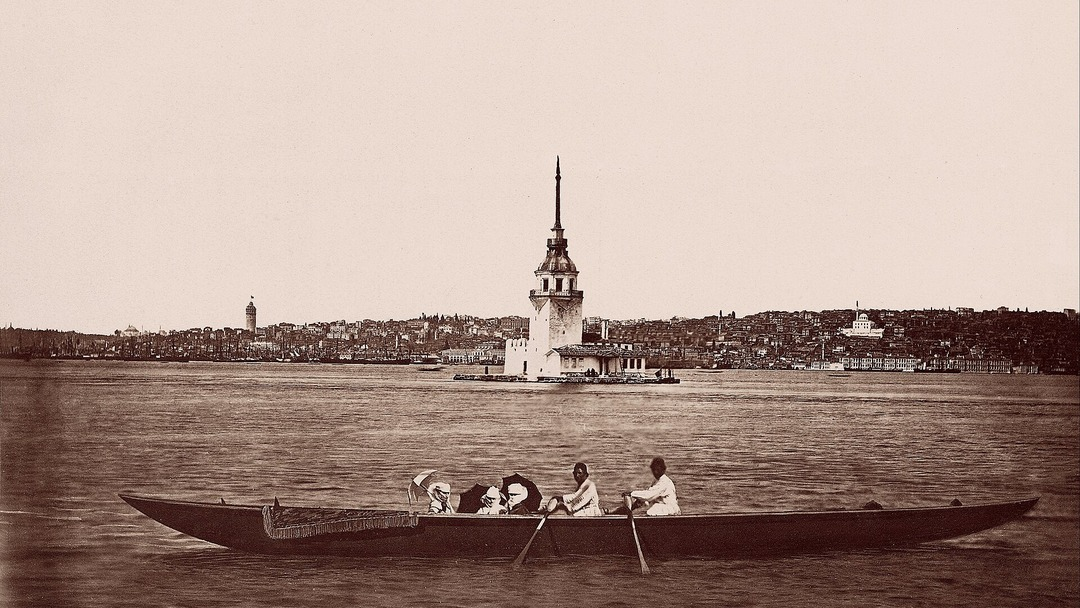
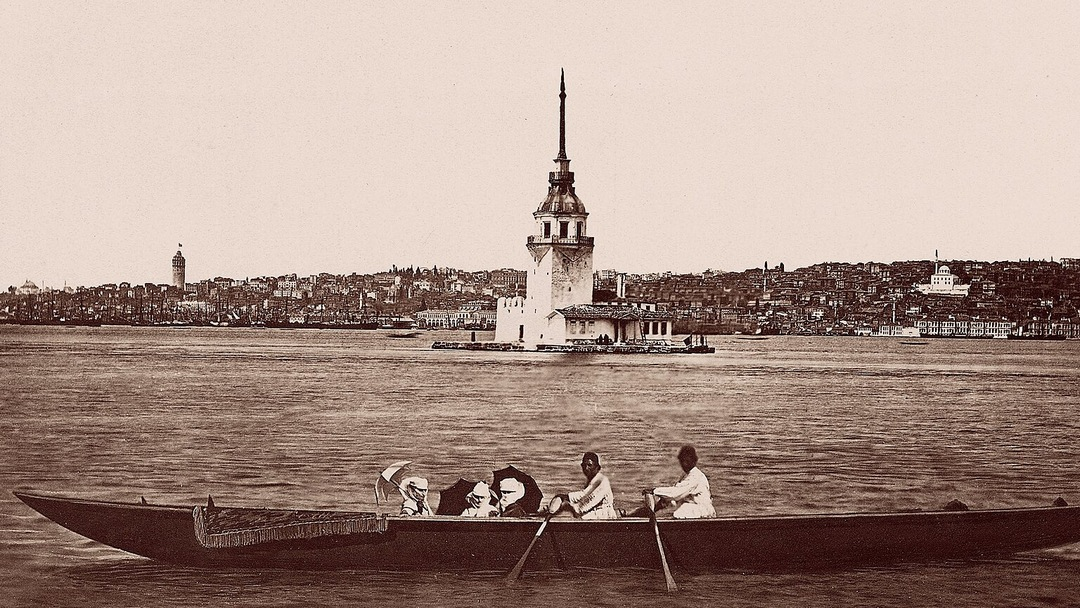
Kız Kulesi son rötuş (8/8): sıcak yüzlü imparator, yeni başlık, isim kökeni cümlesi, ikinci tohum yorum
Üç bölüm de iki bağımsız hakemden 8/10 aldı (görsel sadakat + Türk takipçi/senaryo/doğruluk).

Claude-Session: https://claude.ai/code/session_014fbrFqzL5nrgTVQyj9b7PE

diff --git a/episodes/kiz-kulesi-efsanesi/chars/imparator_uret.py b/episodes/kiz-kulesi-efsanesi/chars/imparator_uret.py
@@ -26,6 +26,12 @@ ile indirilen imparator_bizans.png.
    koyu (120,78,30) dalgalı örgü + dikey çubuklar. Üzüm: 19 tane, r 17-19, (112,38,128), 4 px kontur, sol üstte
    küçük açık parlama; tepede sap + yeşil yaprak. Tuval, ölçek, baş üstü ve yazı yeri aynı kalır (alfa kutusu
    değişmez). Bakış kaydı bilerek elle yapılır (bak, sonra: python -m wojak yon <png> --yon sag).
+6. imparator_bizans_baba.png (final tur 5; takipçi hakemi: ağır göz kapaklı yan bakış + kalkık kaş + yarım
+   gülümseme kanalın yüz dilinde "sinsi" okunuyordu, oysa efsanedeki baba seven ve trajik): sepet + sevecen
+   yüz. Kalkık dış kaş ve eski gözler silinir; düz, hafif kavisli iki kaş; açık, yuvarlak gözler (gözbebeği
+   sağ kenarda: prensese bakar, küçük beyaz parıltı kaynağın sağ gözündeki gibi); ağız açık, gururlu gülüş
+   (üstte beyaz diş şeridi, koyu kırmızı ağız içi, pembe dil; tek tek diş çizgisi yok, "creepy grin" olmasın).
+   Tuval, alfa kutusu, baş üstü ve yazı yeri değişmez. Bakış kaydı yine elle (bak, sonra --yon sag).
 """
 
 from __future__ import annotations
@@ -370,6 +376,69 @@ def sepet(im: Image.Image) -> Image.Image:
     return out
 
 
+# --- sevecen baba yüzü (final tur 5) ------------------------------------------------------------------------
+BEYAZ = (255, 255, 255, 255)
+AGIZ_IC = (120, 28, 34, 255)
+DIL = (226, 112, 124, 255)
+# beyaza boyanan eski yüz çizgileri: sol göz, sol iç kaş, sağ göz, kalkık sağ kaş, eski gülümseme çizgisi
+YUZ_SIL = [(262, 362, 368, 420), (350, 330, 380, 366), (452, 372, 536, 432), (440, 316, 534, 346),
+           (334, 576, 480, 611)]
+# göz: (sol köşe, üst kapak kontrol, sağ köşe, alt kapak kontrol, gözbebeği merkezi, gözbebeği yarıçapı)
+GOZLER = [((276, 395), (313, 356), (352, 390), (314, 428), (333, 392), 14.5),
+          ((466, 403), (495, 368), (525, 399), (497, 432), (511, 400), 12.0)]
+KASLAR = [((274, 353), (312, 334), (352, 347)), ((464, 360), (494, 344), (526, 356))]
+AGIZ_SOL, AGIZ_SAG = (334, 581), (480, 579)
+AGIZ_UST_K, AGIZ_ALT_K = (407, 601), (407, 650)          # üst dudak / alt dudak kontrol noktaları
+DIS_ALT = ((330, 578), (407, 618), (484, 576))            # diş şeridinin alt çizgisi
+DIL_KUTU = (377, 606, 437, 626)
+
+
+def _maske_ile(lay: Image.Image, poly) -> Image.Image:
+    m = Image.new("L", lay.size, 0)
+    ImageDraw.Draw(m).polygon(_ss(poly), fill=255)
+    lay.putalpha(Image.fromarray(np.minimum(np.array(lay.getchannel("A")), np.array(m))))
+    return lay
+
+
+def sevecen_yuz(im: Image.Image) -> Image.Image:
+    a = np.array(im)
+    for x0, y0, x1, y1 in YUZ_SIL:
+        sub = a[y0:y1, x0:x1]
+        sub[(sub[..., 3] > 0) & (sub[..., :3].min(-1) < 235)] = BEYAZ
+    out = Image.fromarray(a)
+    W, H = out.size
+    lay = Image.new("RGBA", (W * SS, H * SS), (0, 0, 0, 0))
+    d = ImageDraw.Draw(lay)
+    for sol, ust, sag, alt, (cx, cy), r in GOZLER:
+        up, lo = _bez(sol, ust, sag, 60), _bez(sol, alt, sag, 60)
+        goz = up + lo[::-1]
+        d.polygon(_ss(goz), fill=BEYAZ)
+        pl = Image.new("RGBA", lay.size, (0, 0, 0, 0))
+        pd = ImageDraw.Draw(pl)
+        pd.ellipse([(cx - r) * SS, (cy - r) * SS, (cx + r) * SS, (cy + r) * SS], fill=INK)
+        hr, hx, hy = r * 0.33, cx - r * 0.35, cy - r * 0.38
+        pd.ellipse([(hx - hr) * SS, (hy - hr) * SS, (hx + hr) * SS, (hy + hr) * SS], fill=BEYAZ)
+        lay.alpha_composite(_maske_ile(pl, goz))
+        d = ImageDraw.Draw(lay)
+        _stroke(d, _ss(up), 6.5 * SS, INK)
+        _stroke(d, _ss(lo), 4.5 * SS, INK)
+    for p0, p1, p2 in KASLAR:
+        _stroke(d, _ss(_bez(p0, p1, p2, 60)), 6 * SS, INK)
+    ust, alt = _bez(AGIZ_SOL, AGIZ_UST_K, AGIZ_SAG, 60), _bez(AGIZ_SOL, AGIZ_ALT_K, AGIZ_SAG, 60)
+    agiz = ust + alt[::-1]
+    ml = Image.new("RGBA", lay.size, (0, 0, 0, 0))
+    md = ImageDraw.Draw(ml)
+    md.polygon(_ss(agiz), fill=AGIZ_IC)
+    md.ellipse([v * SS for v in DIL_KUTU], fill=DIL)
+    dis = _bez(*DIS_ALT, 60)
+    md.polygon(_ss(ust + dis[::-1]), fill=BEYAZ)
+    md.line(_ss(dis), fill=INK, width=3 * SS)
+    lay.alpha_composite(_maske_ile(ml, agiz))
+    _stroke(ImageDraw.Draw(lay), _ss(agiz + [agiz[0]]), 5.5 * SS, INK)
+    out.alpha_composite(lay.resize((W, H), Image.LANCZOS))
+    return out
+
+
 def main() -> None:
     base = Image.open(SRC).convert("RGBA")
     g = gulumse(base)
@@ -382,6 +451,10 @@ def main() -> None:
     k = sepet(s)
     k.save(HERE / "imparator_bizans_sepet.png", optimize=True)
     print("->", (HERE / "imparator_bizans_sepet.png").relative_to(ROOT), k.size,
+          "(bak, sonra: python -m wojak yon <png> --yon sag)")
+    b = sevecen_yuz(k)
+    b.save(HERE / "imparator_bizans_baba.png", optimize=True)
+    print("->", (HERE / "imparator_bizans_baba.png").relative_to(ROOT), b.size,
           "(bak, sonra: python -m wojak yon <png> --yon sag)")
 
 

diff --git a/teslim/kiz-kulesi-efsanesi/paylasim.md b/teslim/kiz-kulesi-efsanesi/paylasim.md
@@ -4,16 +4,16 @@ Süre: 14.0 sn · 6 sahne · video: `kiz-kulesi-efsanesi.mp4` · kapak: `kapak.j
 
 ## Instagram Reels
 
-### Açıklama (başlık + hikâye + en fazla 5 hashtag) — 2101/2200
+### Açıklama (başlık + hikâye + en fazla 5 hashtag) — 2164/2200
 
 ```
-Kız Kulesi'ndeki prensesin 18. doğum günü
+Kız Kulesi'ne kapatılan prensesin 18. doğum günü
 
 Kız Kulesi efsanesi, yılan sokmasın diye Üsküdar açıklarındaki kuleye kapatılan bir prensesin yüzyıllardır dilden dile dolaşan hikâyesidir. Yaşandığına dair tarihî bir kayıt yoktur; anlatımlar birbirinden farklıdır, çoğu hikâyeyi Bizans dönemine, bazıları Osmanlı dönemine bağlar.
 
 En bilinen anlatıma göre bir kâhin, imparatorun çok sevdiği kızının 18 yaşına girdiğinde bir yılan tarafından sokularak *leceğini söyler. İmparator, kızını yılanlardan uzak tutmak için kıyı açığındaki küçük bir adacıkta bulunan kuleye kapatır. Prensesi yalnızca babası ziyaret eder.
 
-Prensesin 18. yaş gününde imparator, kehaneti boşa çıkardığını düşünerek kızına bir sepet meyve götürür; Türkçe anlatımlarda bu meyve genellikle üzümdür. Meyvelerin arasına gizlenmiş bir yılan prensesi sokar ve prenses babasının kollarında hayatını kaybeder. Bir rivayete göre imparator kızını demir bir tabuta koydurup Ayasofya'nın giriş kapısının üstüne yerleştirir; tabuttaki iki deliğin, yılanın prensesi *lümünden sonra bile rahat bırakmadığını gösterdiği anlatılır.
+Prensesin 18. yaş gününde imparator, kehaneti boşa çıkardığını düşünerek kızına bir sepet meyve götürür; Türkçe anlatımlarda bu meyve genellikle üzümdür. Meyvelerin arasına gizlenmiş bir yılan prensesi sokar ve prenses babasının kollarında hayatını kaybeder. Kuleye Kız Kulesi adının bu yüzden verildiği anlatılır. Bir rivayete göre imparator kızını demir bir tabuta koydurup Ayasofya'nın giriş kapısının üstüne yerleştirir; tabuttaki iki deliğin, yılanın prensesi *lümünden sonra bile rahat bırakmadığını gösterdiği anlatılır.
 
 Bazı anlatımlarda sepeti hizmetçiler getirir, bazılarında ise yılan, prensese âşık genç bir subayın getirdiği çiçek sepetinden çıkar. Kuleye bağlanan tek efsane de bu değildir: Battal Gazi'nin, Üsküdar tekfurunun kuleye kapattığı kızını kurtarıp atıyla kaçtığı anlatılır; "Atı alan Üsküdar'ı geçti" sözünün buradan geldiği söylenir.
 
@@ -28,10 +28,10 @@ Görseller: Sonse, Flickr, CC BY 2.0 (kırpıldı, ton düzeltildi); Pascal Séb
 
 ## YouTube Shorts
 
-### Başlık — 41/100
+### Başlık — 48/100
 
 ```
-Kız Kulesi'ndeki prensesin 18. doğum günü
+Kız Kulesi'ne kapatılan prensesin 18. doğum günü
 ```
 
 ### Açıklama
@@ -45,14 +45,14 @@ Görseller: Sonse, Flickr, CC BY 2.0 (kırpıldı, ton düzeltildi); Pascal Séb
 #kizkulesi #efsane #uskudar #istanbul #wojak #tarihselwojak #keşfet #olay #shorts
 ```
 
-### Sabit yorum (yayından hemen sonra yaz ve sabitle) — 1822 karakter
+### Sabit yorum (yayından hemen sonra yaz ve sabitle) — 1878 karakter
 
 ```
 Kız Kulesi efsanesi, yılan sokmasın diye Üsküdar açıklarındaki kuleye kapatılan bir prensesin yüzyıllardır dilden dile dolaşan hikâyesidir. Yaşandığına dair tarihî bir kayıt yoktur; anlatımlar birbirinden farklıdır, çoğu hikâyeyi Bizans dönemine, bazıları Osmanlı dönemine bağlar.
 
 En bilinen anlatıma göre bir kâhin, imparatorun çok sevdiği kızının 18 yaşına girdiğinde bir yılan tarafından sokularak *leceğini söyler. İmparator, kızını yılanlardan uzak tutmak için kıyı açığındaki küçük bir adacıkta bulunan kuleye kapatır. Prensesi yalnızca babası ziyaret eder.
 
-Prensesin 18. yaş gününde imparator, kehaneti boşa çıkardığını düşünerek kızına bir sepet meyve götürür; Türkçe anlatımlarda bu meyve genellikle üzümdür. Meyvelerin arasına gizlenmiş bir yılan prensesi sokar ve prenses babasının kollarında hayatını kaybeder. Bir rivayete göre imparator kızını demir bir tabuta koydurup Ayasofya'nın giriş kapısının üstüne yerleştirir; tabuttaki iki deliğin, yılanın prensesi *lümünden sonra bile rahat bırakmadığını gösterdiği anlatılır.
+Prensesin 18. yaş gününde imparator, kehaneti boşa çıkardığını düşünerek kızına bir sepet meyve götürür; Türkçe anlatımlarda bu meyve genellikle üzümdür. Meyvelerin arasına gizlenmiş bir yılan prensesi sokar ve prenses babasının kollarında hayatını kaybeder. Kuleye Kız Kulesi adının bu yüzden verildiği anlatılır. Bir rivayete göre imparator kızını demir bir tabuta koydurup Ayasofya'nın giriş kapısının üstüne yerleştirir; tabuttaki iki deliğin, yılanın prensesi *lümünden sonra bile rahat bırakmadığını gösterdiği anlatılır.
 
 Bazı anlatımlarda sepeti hizmetçiler getirir, bazılarında ise yılan, prensese âşık genç bir subayın getirdiği çiçek sepetinden çıkar. Kuleye bağlanan tek efsane de bu değildir: Battal Gazi'nin, Üsküdar tekfurunun kuleye kapattığı kızını kurtarıp atıyla kaçtığı anlatılır; "Atı alan Üsküdar'ı geçti" sözünün buradan geldiği söylenir.
 
@@ -63,16 +63,16 @@ Sizce kaderden kaçmak mümkün mü?
 
 ## TikTok (isteğe bağlı)
 
-### Açıklama — 2125/4000
+### Açıklama — 2188/4000
 
 ```
-Kız Kulesi'ndeki prensesin 18. doğum günü
+Kız Kulesi'ne kapatılan prensesin 18. doğum günü
 
 Kız Kulesi efsanesi, yılan sokmasın diye Üsküdar açıklarındaki kuleye kapatılan bir prensesin yüzyıllardır dilden dile dolaşan hikâyesidir. Yaşandığına dair tarihî bir kayıt yoktur; anlatımlar birbirinden farklıdır, çoğu hikâyeyi Bizans dönemine, bazıları Osmanlı dönemine bağlar.
 
 En bilinen anlatıma göre bir kâhin, imparatorun çok sevdiği kızının 18 yaşına girdiğinde bir yılan tarafından sokularak *leceğini söyler. İmparator, kızını yılanlardan uzak tutmak için kıyı açığındaki küçük bir adacıkta bulunan kuleye kapatır. Prensesi yalnızca babası ziyaret eder.
 
-Prensesin 18. yaş gününde imparator, kehaneti boşa çıkardığını düşünerek kızına bir sepet meyve götürür; Türkçe anlatımlarda bu meyve genellikle üzümdür. Meyvelerin arasına gizlenmiş bir yılan prensesi sokar ve prenses babasının kollarında hayatını kaybeder. Bir rivayete göre imparator kızını demir bir tabuta koydurup Ayasofya'nın giriş kapısının üstüne yerleştirir; tabuttaki iki deliğin, yılanın prensesi *lümünden sonra bile rahat bırakmadığını gösterdiği anlatılır.
+Prensesin 18. yaş gününde imparator, kehaneti boşa çıkardığını düşünerek kızına bir sepet meyve götürür; Türkçe anlatımlarda bu meyve genellikle üzümdür. Meyvelerin arasına gizlenmiş bir yılan prensesi sokar ve prenses babasının kollarında hayatını kaybeder. Kuleye Kız Kulesi adının bu yüzden verildiği anlatılır. Bir rivayete göre imparator kızını demir bir tabuta koydurup Ayasofya'nın giriş kapısının üstüne yerleştirir; tabuttaki iki deliğin, yılanın prensesi *lümünden sonra bile rahat bırakmadığını gösterdiği anlatılır.
 
 Bazı anlatımlarda sepeti hizmetçiler getirir, bazılarında ise yılan, prensese âşık genç bir subayın getirdiği çiçek sepetinden çıkar. Kuleye bağlanan tek efsane de bu değildir: Battal Gazi'nin, Üsküdar tekfurunun kuleye kapattığı kızını kurtarıp atıyla kaçtığı anlatılır; "Atı alan Üsküdar'ı geçti" sözünün buradan geldiği söylenir.
 
@@ -87,7 +87,7 @@ Görseller: Sonse, Flickr, CC BY 2.0 (kırpıldı, ton düzeltildi); Pascal Séb
 
 ## Yükleme kontrol listesi
 
-- [ ] **Lisans kararı senin:** `kanit_2_sepetteki_yilan_boyaci.jpg` (son kanıt, 12,5-14,0 sn) telifli: Ömer Faruk Boyacı'nın YouTube kanalındaki (BOYACI, https://www.youtube.com/@omerfarukboyaci) "İSTANBUL'UN EFSANELERİ - Kız Kulesi ve Sepetteki Yılan Efsanesi" videosunun küçük resmi; Pendik Belediyesi'nin "İstanbul'un Efsaneleri" dijital sergisi için çizilmiş bir illüstrasyon (sol altta ressam imzası var, küratör İsmail Erdoğan). Kullanacaksan izni yalnız belediyeden değil, yükleyiciden/ressamdan (Ömer Faruk Boyacı) da iste; açıklamadaki atıf satırı hazır. İstemezsen bu kart çıkar, yılan ekranda görünmez: kanıtlar BoraBora704'ün modern kule fotoğrafı (Wikimedia Commons, CC BY-SA 4.0, hazır: `episodes/kiz-kulesi-efsanesi/img/kanit_1_kiz_kulesi_borabora704.jpg`) ve sonda Pascal Sébah'ın 19. yüzyıl fotoğrafı (kamu malı) olur. Bunun için episode.yaml'da iki kanıtın `images:` satırı ve `credits` (Boyacı yerine "BoraBora704, Wikimedia Commons, CC BY-SA 4.0 (kırpıldı)") değişir, sonra yeniden render + teslim
+- [ ] **Lisans kararı senin:** `kanit_2_sepetteki_yilan_boyaci.jpg` (son kanıt, 12,5-14,0 sn) telifli: Ömer Faruk Boyacı'nın YouTube kanalındaki (BOYACI, https://www.youtube.com/@omerfarukboyaci) "İSTANBUL'UN EFSANELERİ - Kız Kulesi ve Sepetteki Yılan Efsanesi" videosunun küçük resmi; Pendik Belediyesi'nin "İstanbul'un Efsaneleri" dijital sergisi için çizilmiş bir illüstrasyon (sol altta ressam imzası var, küratör İsmail Erdoğan). Kullanacaksan izni yalnız belediyeden değil, yükleyiciden/ressamdan (Ömer Faruk Boyacı) da iste; açıklamadaki atıf satırı hazır. İstemezsen bu kart çıkar ve yılan ekranda görünmez. Orijinallerde son görsel çoğu zaman kendi başlığı olan bir haber ya da YouTube küçük resmi; lisansını alabileceğin, başlığında "yılan" ya da "sepet" geçen gerçek bir küçük resim bulursan onu son kanıt yap (biz 14 tanesine baktık: çoğu yapay zekâ çizimi, birinin başlığı yazım hatalı, biri sunucunun yüzünü gösteriyor, TRT Haber'inkinde yılan yok; uygun çıkmadı). Bulamazsan izin gerektirmeyen hazır yedek: kanıtlar BoraBora704'ün modern kule fotoğrafı (Wikimedia Commons, CC BY-SA 4.0, hazır: `episodes/kiz-kulesi-efsanesi/img/kanit_1_kiz_kulesi_borabora704.jpg`) ve sonda Pascal Sébah'ın 19. yüzyıl fotoğrafı (kamu malı) olur. Bunun için episode.yaml'da iki kanıtın `images:` satırı ve `credits` (Boyacı yerine "BoraBora704, Wikimedia Commons, CC BY-SA 4.0 (kırpıldı)") değişir, sonra yeniden render + teslim
 - [ ] Saat: **20:00-20:15**, 2 günde 1 (Instagram altın döneminde 25/25 reel bu düzende)
 - [ ] Instagram: Reels → videoyu seç → **Kapağı düzenle → Galeriden ekle → `kapak.jpg`** → açıklamayı yapıştır
 - [ ] Ses: videodaki kanalın imza müziği (orijinal ses). Ayrıca müzik ekleme
@@ -95,6 +95,7 @@ Görseller: Sonse, Flickr, CC BY 2.0 (kırpıldı, ton düzeltildi); Pascal Séb
 - [ ] Yapay zekâ sorusu: "Hayır" (bu bölümde fotogerçekçi yapay zekâ görseli yok; wojak çizimi gerçekçi sayılmaz)
 - [ ] İlk 1-2 saat: yorumlara cevap (özellikle "ben oralıyım" yorumları), hakaret/isim ifşası içerenleri sil
 - [ ] İlk saat (isteğe bağlı): ilk yorumu sen yaz: "Kız Kulesi'ni her gün görenler, Üsküdarlılar burada mı?" ("ben oralıyım" yorumlarını başlatır)
+- [ ] İlk saat (isteğe bağlı): ikinci yorum: "Bizim bildiğimiz hikâyede sepeti hizmetçiler getiriyordu, sizde nasıl anlatılırdı?" (efsanenin farklı anlatımları yorumda tartışma başlatır)
 
 Metinler ayrıca tek tek: `metinler/` klasöründe (.txt).
 
@@ -108,8 +109,8 @@ Metinler ayrıca tek tek: `metinler/` klasöründe (.txt).
 - istanbul.com — Kız Kulesi efsanesi (imparator, 18. yaş günü, meyve sepeti, babasının kollarında): https://istanbul.com/tr/blog/imagery-monuments-tower/legend-of-maiden-tower-istanbul
 - For 91 Days — Kız Kulesi (sultan anlatımı: 'a sultan had received a prophecy'): https://istanbul.for91days.com/kiz-kulesi-the-maidens-tower
 - Arka plan (final tur 3; olayın gerçek yeri): 'Kız Kulesi, Maiden's Tower (52396926549).jpg', Sonse, 3 Ekim 2021, CC BY 2.0, https://creativecommons.org/licenses/by/2.0/ (Flickr: https://www.flickr.com/photos/34585612@N00/52396926549 ; Commons: https://commons.wikimedia.org/wiki/File:K%C4%B1z_Kulesi,_Maiden%27s_Tower_(52396926549).jpg ; FlickreviewR 2 ile cc-by-2.0 doğrulanmış; Flickr 2048 px sürümü img/kiz_kulesi_sonse_kaynak.jpg). Değişiklikler (arkaplan.py): kare kırpım (182, 0, 1377, 1195), gama 1,35 (parlaklık 146 -> ~124), doygunluk x0,88. Önceki turların arka planı (Alanya Kızılkule iç mekânı, Satirdan kahraman, CC0, img/arka_kule_odasi_kizilkule.jpg) artık kullanılmıyor.
-- Kanıt 1 (final tur 4; 11,0-12,5 sn): 'Pascal Sébah - Kız Kulesi, Galata and Fındıklı Residential Areas - Google Art Project.jpg' (kartondaki yazı: '51. La tour de Léandre', 'P. Sébah'), Pascal Sébah (1823-1886), 19. yüzyıl sonu, kâğıt üzerine albümin baskı, Pera Müzesi koleksiyonu; kamu malı (PD-Art, PD-old-100-expired: yazar 1886'da öldü; Commons dosya sayfasında doğrulandı): https://commons.wikimedia.org/wiki/File:Pascal_S%C3%A9bah_-_K%C4%B1z_Kulesi,_Galata_and_F%C4%B1nd%C4%B1kl%C4%B1_Residential_Areas_-_Google_Art_Project.jpg . Commons 1920 px küçük resmi; 16:9 kırpım (0, 300, 1920, 1381), 1080x608'e küçültüldü (alttaki yazılar kadraj dışında), renk/ton değişmedi: img/kanit_1_sebah_tarihi.jpg. Görünen: kule, önünde kayıkta şemsiyeli kadınlar ve kürekçiler, arkada Galata Kulesi ve Fındıklı sırtları.
+- Kanıt 1 (final tur 4, kırpım final tur 5; 11,0-12,5 sn): 'Pascal Sébah - Kız Kulesi, Galata and Fındıklı Residential Areas - Google Art Project.jpg' (kartondaki yazı: '51. La tour de Léandre', 'P. Sébah'), Pascal Sébah (1823-1886), 19. yüzyıl sonu, kâğıt üzerine albümin baskı, Pera Müzesi koleksiyonu; kamu malı (PD-Art, PD-old-100-expired: yazar 1886'da öldü; Commons dosya sayfasında doğrulandı): https://commons.wikimedia.org/wiki/File:Pascal_S%C3%A9bah_-_K%C4%B1z_Kulesi,_Galata_and_F%C4%B1nd%C4%B1kl%C4%B1_Residential_Areas_-_Google_Art_Project.jpg . Commons 1920 px küçük resmi; 16:9 kırpım (192, 480, 1728, 1344) (final tur 5: kule ~1,25 kat büyüdü, boş gökyüzü kesildi), 1080x608'e küçültüldü (alttaki yazılar kadraj dışında), renk/ton değişmedi: img/kanit_1_sebah_tarihi.jpg. Görünen: kule, önünde kayıkta şemsiyeli kadınlar ve kürekçiler (kayığın kıçı sağ kenarda biraz kesik), solda Galata Kulesi ve Fındıklı sırtları.
 - Kanıt 2 (12,5-14,0 sn; telifli, git'e girmez, hesap sahibinin onayına): YouTube videosu 'İSTANBUL'UN EFSANELERİ - Kız Kulesi ve Sepetteki Yılan Efsanesi', yükleyen BOYACI (Ömer Faruk Boyacı, sanatçı ve endüstriyel tasarımcı; https://www.youtube.com/@omerfarukboyaci ; YouTube oEmbed ve kanal 'Hakkında' sayfasıyla doğrulandı), Pendik Belediyesi 'İstanbul'un Efsaneleri Dijital Sergi' (küratör İsmail Erdoğan) için illüstrasyon + başlık ('KIZ KULESİ Sepetteki Yılan EFSANESİ'), sol altta ressam imzası: https://www.youtube.com/watch?v=fX0lzPWNx68 (görsel: https://i.ytimg.com/vi/fX0lzPWNx68/maxresdefault.jpg, 1280x720, değiştirilmedi; img/telifli/kanit_2_sepetteki_yilan_boyaci.jpg). Önceki turlarda yanlışlıkla doğrudan 'Pendik Belediyesi' kaynaklı yazılmıştı.
 - Yedek kanıt (videoda kullanılmıyor; hesap sahibi kanıt 2'yi istemezse kanıt 1 olur, Sébah sona geçer): 'İSTANBUL KIZKULESİ.jpg', BoraBora704, 2018-10-12, CC BY-SA 4.0, https://creativecommons.org/licenses/by-sa/4.0/ (1920 px küçük resim, 16:9 kırpıldı, y 300-1380; parlaklık x1,12, renk x1,05; img/kanit_1_kiz_kulesi_borabora704.jpg): https://commons.wikimedia.org/wiki/File:%C4%B0STANBUL_KIZKULES%C4%B0.jpg
-- İmparator: wojakland 'byzantine emperor wojak' (Theocrat3_1.png; chars/imparator_bizans_sade.png = aynı çizim, ağız gülümsemeye çevrildi, taç düz koyu altın kamelaukion + inci dizileri + 4 taş + haç olarak sadeleştirildi, inciler elle çizilmiş gibi düzensiz; final tur 2: tuval 586x862'ye uzatıldı, mor cüppe + yuvarlak iç omuz + altın loros şeridi eklendi; final tur 3: büst kanal oranına genişletildi, tuval 780x862, iç omuz alt kenara ~775'te iner; final tur 4: chars/imparator_bizans_sepet.png = sade + iç alt köşede alt kenardan kesilen düz MS-Paint hasır sepet ve mor üzüm yığını (yeşil yaprak), kendi çizimimiz; chars/imparator_uret.py): https://wojakland.com/gmedia/theocrat3_1-png/
+- İmparator: wojakland 'byzantine emperor wojak' (Theocrat3_1.png; chars/imparator_bizans_sade.png = aynı çizim, ağız gülümsemeye çevrildi, taç düz koyu altın kamelaukion + inci dizileri + 4 taş + haç olarak sadeleştirildi, inciler elle çizilmiş gibi düzensiz; final tur 2: tuval 586x862'ye uzatıldı, mor cüppe + yuvarlak iç omuz + altın loros şeridi eklendi; final tur 3: büst kanal oranına genişletildi, tuval 780x862, iç omuz alt kenara ~775'te iner; final tur 4: chars/imparator_bizans_sepet.png = sade + iç alt köşede alt kenardan kesilen düz MS-Paint hasır sepet ve mor üzüm yığını (yeşil yaprak), kendi çizimimiz; final tur 5: chars/imparator_bizans_baba.png = sepet + sevecen baba yüzü (eski ağır kapaklı gözler ve kalkık kaş yerine düz kaşlar, prensese bakan açık yuvarlak gözler, açık gururlu gülüş; kendi çizimimiz); chars/imparator_uret.py): https://wojakland.com/gmedia/theocrat3_1-png/
 - Prenses: HF clayshoaf/Wojaks 5_Doomer_Girl/2481 'Your Japanese girlfriend' (assets/kit/prenses_genc; üniforma yerine düz mor elbise + altın yaka, küçük altın stemma, korku varyantı; final tur 2: sol omuz eğimli çizildi (dikey elbise kesiği yok), yüz ile sağ saç tutamı arasındaki şeffaf yarık saç dolgusuyla kapatıldı, saç kenarındaki çentik silindi; final tur 3: korku yüzü güçlendirildi: daha iri açılmış gözler, küçük koyu halkalı iris + iğne ucu gözbebeği, 3 koyu göz altı çizgisi, daha uzun/kalın mavi ter çizgileri, daha büyük açık ağız; assets/kit/prenses_genc/uret.py): https://huggingface.co/datasets/clayshoaf/Wojaks/blob/main/5_Doomer_Girl/2481.png
